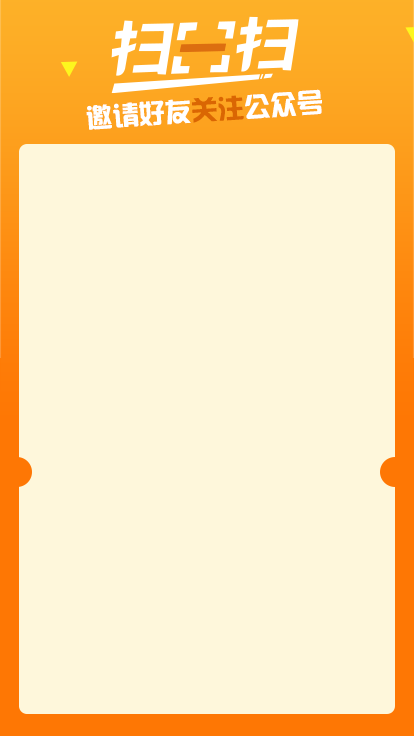
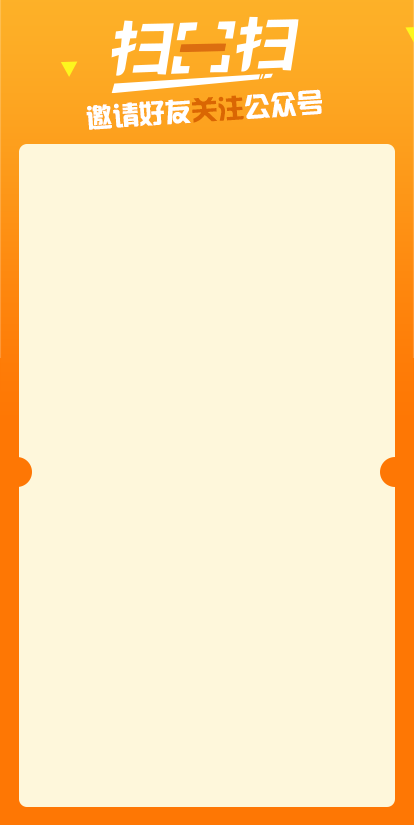
提交推广二维码修改

diff --git a/statics/front/css/qrcode.css b/statics/front/css/qrcode.css
@@ -90,9 +90,102 @@ html {
 
 .pn_index {
 	width: 100%;
-	min-height: 100vh;
+	min-height: 120vh;
 	background-position: 0 0;
 	background-repeat: no-repeat;
 	background-size: 100% auto;
-	background-color: #fca24a;
+	background-color: #FE7704;
+}
+
+.pn_index_title {
+    width: 12.75rem;
+    height: 2.5rem;
+    padding-top: 7rem;
+    margin: 0 auto;
+    line-height: 2.5rem;
+}
+
+.pn_index_title img {
+	width: 2.5rem;
+    height: 2.5rem;
+    border-radius: 50%;
+}
+
+.pn_index_title span {
+	margin-left: .5rem;
+    color: #FE7704;
+    font-size: 16px;
+}
+
+.pn_index_redpacket {
+	width: 10rem;
+    height: 10rem;
+    padding-top: .5rem;
+    margin: 0 auto;
+}
+
+.pn_index_redpacket img {
+	width: 10rem;
+    height: 10rem;
+	border-radius: 4px;
+}
+
+.pn_index_redpacket_cover {
+	padding-top: .5rem;
+    margin: 0 auto;
+	width: 75%;
+}
+
+.pn_index_redpacket_cover img {
+	margin: 0 auto;
+	width: 100%;
+	height: 55px;
+}
+
+.cover_content {
+	display: -webkit-box;
+    display: -webkit-flex;
+    display: flex;
+    -webkit-box-orient: vertical;
+    -webkit-box-direction: normal;
+    -webkit-flex-flow: row;
+    flex-flow: row;
+	justify-content: space-between;
+	color: #FE7704;
+}
+
+.pn_index_invite {
+    margin: 0 auto;
+	width: 15rem;
+	background-color: #F9E6BC;
+    border-radius: 4px;
+	margin-top: 1rem;
+	color: #bd793f;
+	line-height: 1.5rem;
+	height: 10rem;
+}
+
+.pn_index_invite dl {
+	border-bottom: 1px solid #f3dba7;
+    padding: .2rem .5rem;
+}
+
+.right {
+	float: right;
+}
+
+.invite_content {
+    height: 8rem;
+    overflow: auto;
+    -webkit-overflow-scrolling: touch;
+    padding: 0 .5rem;
+}
+
+.invite_content dd {
+	margin: .1rem 0;
+}
+
+.invite_content .t_c {
+	text-align: center;
+    line-height: 8rem;
 }

diff --git a/templates/front/qrcode.dwt.php b/templates/front/qrcode.dwt.php
@@ -1,7 +1,7 @@
 {nocache}
 <!DOCTYPE html>
 <html>
-<meta name="viewport" content="width=device-width, initial-scale=1.0, user-scalable=0, minimum-scale=1.0, maximum-scale=1.0"/>
+<meta name="viewport" content="width=device-width, initial-scale=1.0, maximum-scale=1.0, user-scalable=0, shrink-to-fit=no"/>
 <meta http-equiv="X-UA-Compatible" content="IE=8,IE=9,IE=10,IE=11"/>
 <meta http-equiv="Content-Type" content="text/html; charset=utf-8" />
 	<head lang="zh-CN">
@@ -12,6 +12,30 @@
 		<div id="app" class="wrapper">
 			<div>
 	            <div class="pn_index" style="background-image: url({$front_url}/images/qrcode_back.png);">
+	            	<div class="pn_index_title">
+	            		<img src="{$user_info.headimgurl}" ><span>{$user_info.nickname}</span>
+	            	</div>
+	            	<div class="pn_index_redpacket">
+	            		<img src="{$url}" >
+	            	</div>
+	            	<div class="pn_index_redpacket_cover">
+	            		<img src="{$front_url}/images/progress.png">
+	            		<div class="cover_content">
+	            			<span>扫描二维码</span>
+	            			<span>关注公众号</span>
+	            			<span>邀请成功</span>
+	            		</div>
+	            	</div>
+	            	<div class="pn_index_invite">
+	            		<dl>我邀请的人数：<span>{count($user_list)}</span>人</dl>
+	            		<div class="invite_content">
+	            			<!-- {foreach from=$user_list item=val} -->
+		            		<dt><dd><span>{$val.add_time}</span><span class="right">{$val.nick_name}</span></dd><dt>
+		            		<!-- {foreachelse} -->
+		            		<div class="t_c">暂无邀请</div>
+		            		<!-- {/foreach} -->
+	            		</dt>
+	            	</div>
 	            </div>
             </div>
         </div>

diff --git a/mobile_qrcode.php b/mobile_qrcode.php
@@ -76,7 +76,12 @@ class mobile_qrcode extends EcjiaWechatUserController
         // test
         // return $this->displayContent(file_get_contents($url), 'image/png');
         // $this->displayAppTemplate('wechat', 'front/qrcode.dwt');
-
+		
+        $user_info = RC_DB::table('wechat_user')->where('openid', $openid)->first();
+        $this->assign('user_info', $user_info);
+        
+        $this->assign('url', $url);
+        
         $this->display(
             RC_Package::package('app::wechat')->loadTemplate('front/qrcode.dwt', true)
         );
